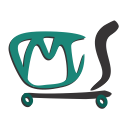
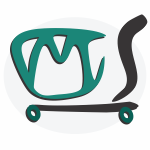
ICONE

Changed region(s): [[0.062, 0.093, 0.9922, 0.8682]]

diff --git a/src/app/controllers/GerenteController.java b/src/app/controllers/GerenteController.java
@@ -173,7 +173,7 @@ public class GerenteController implements Initializable {
     private void changeScreen(String fxml) throws IOException {
         Stage stage = new Stage();
 
-        stage.getIcons().add(new Image(Main.class.getResourceAsStream("resources/images/SoftMarket.png")));
+        stage.getIcons().add(new Image(Main.class.getResourceAsStream("resources/images/ICONE.png")));
         FXMLLoader loader = new FXMLLoader();
         loader.setLocation(getClass().getResource(fxml));
         Parent root = loader.load();
